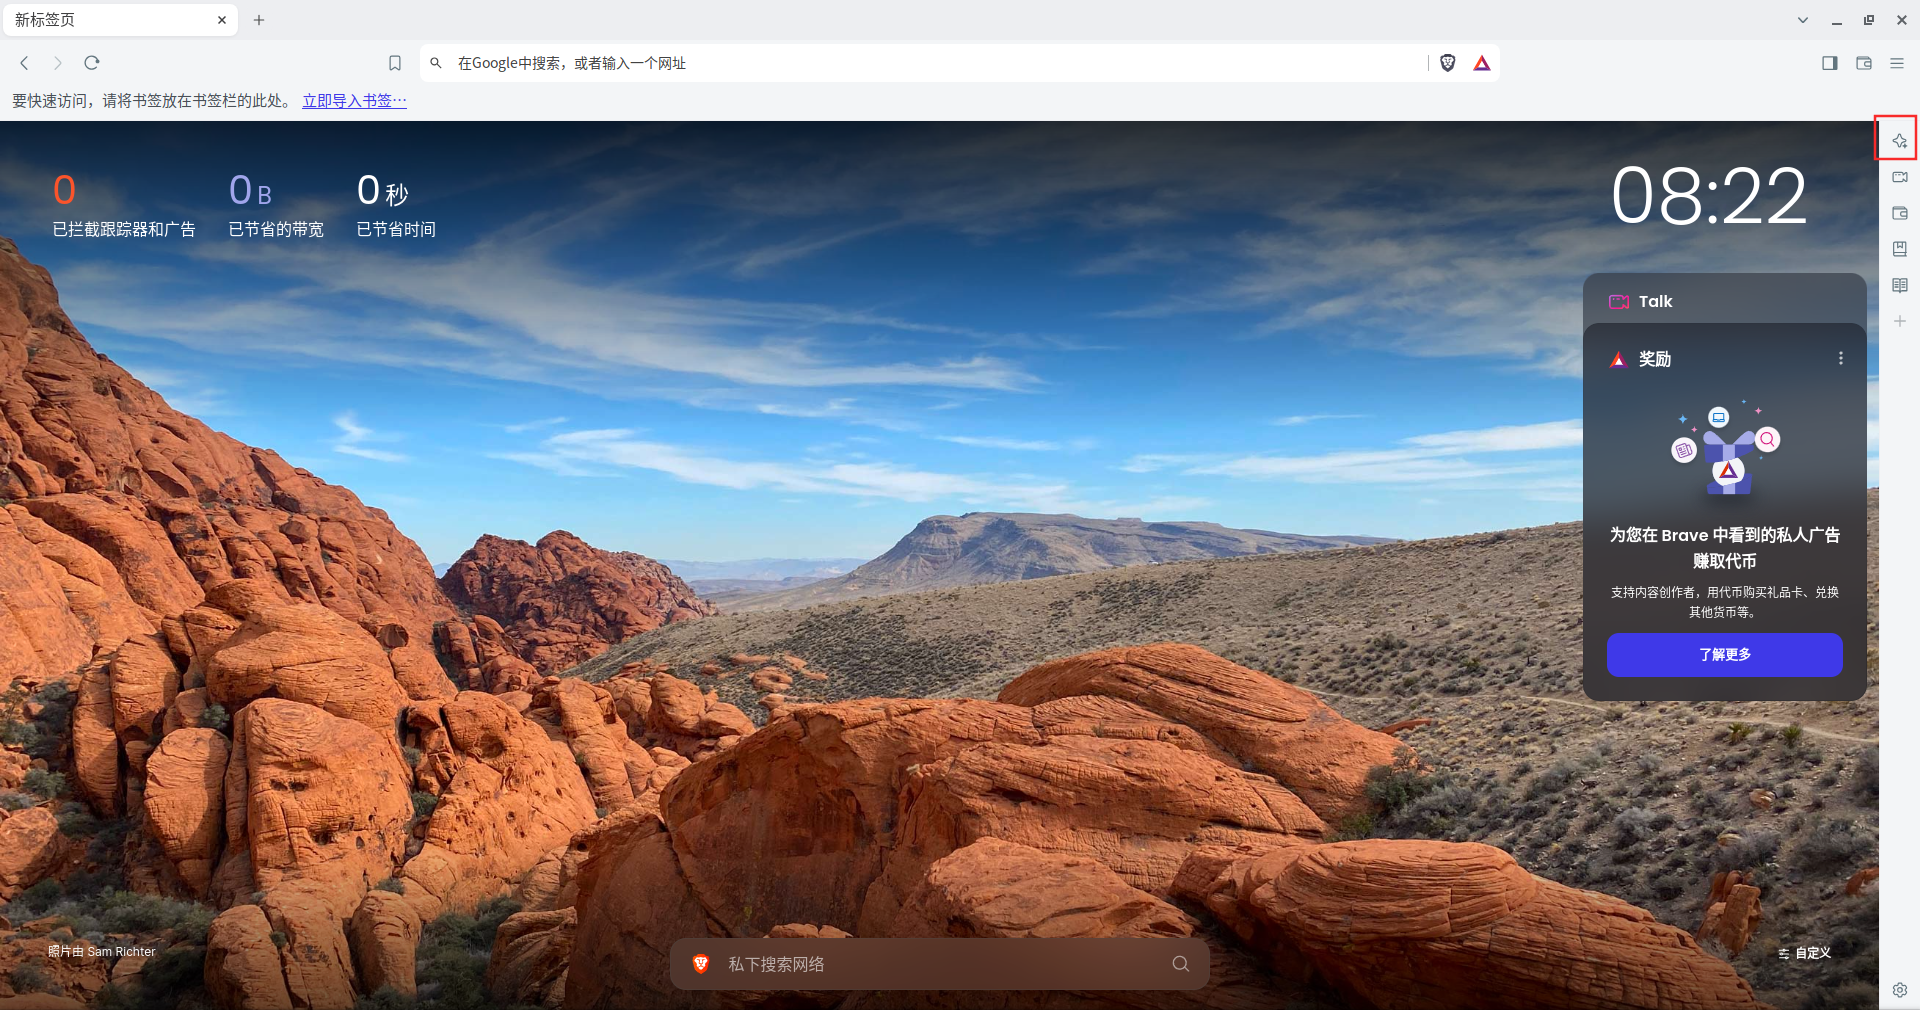
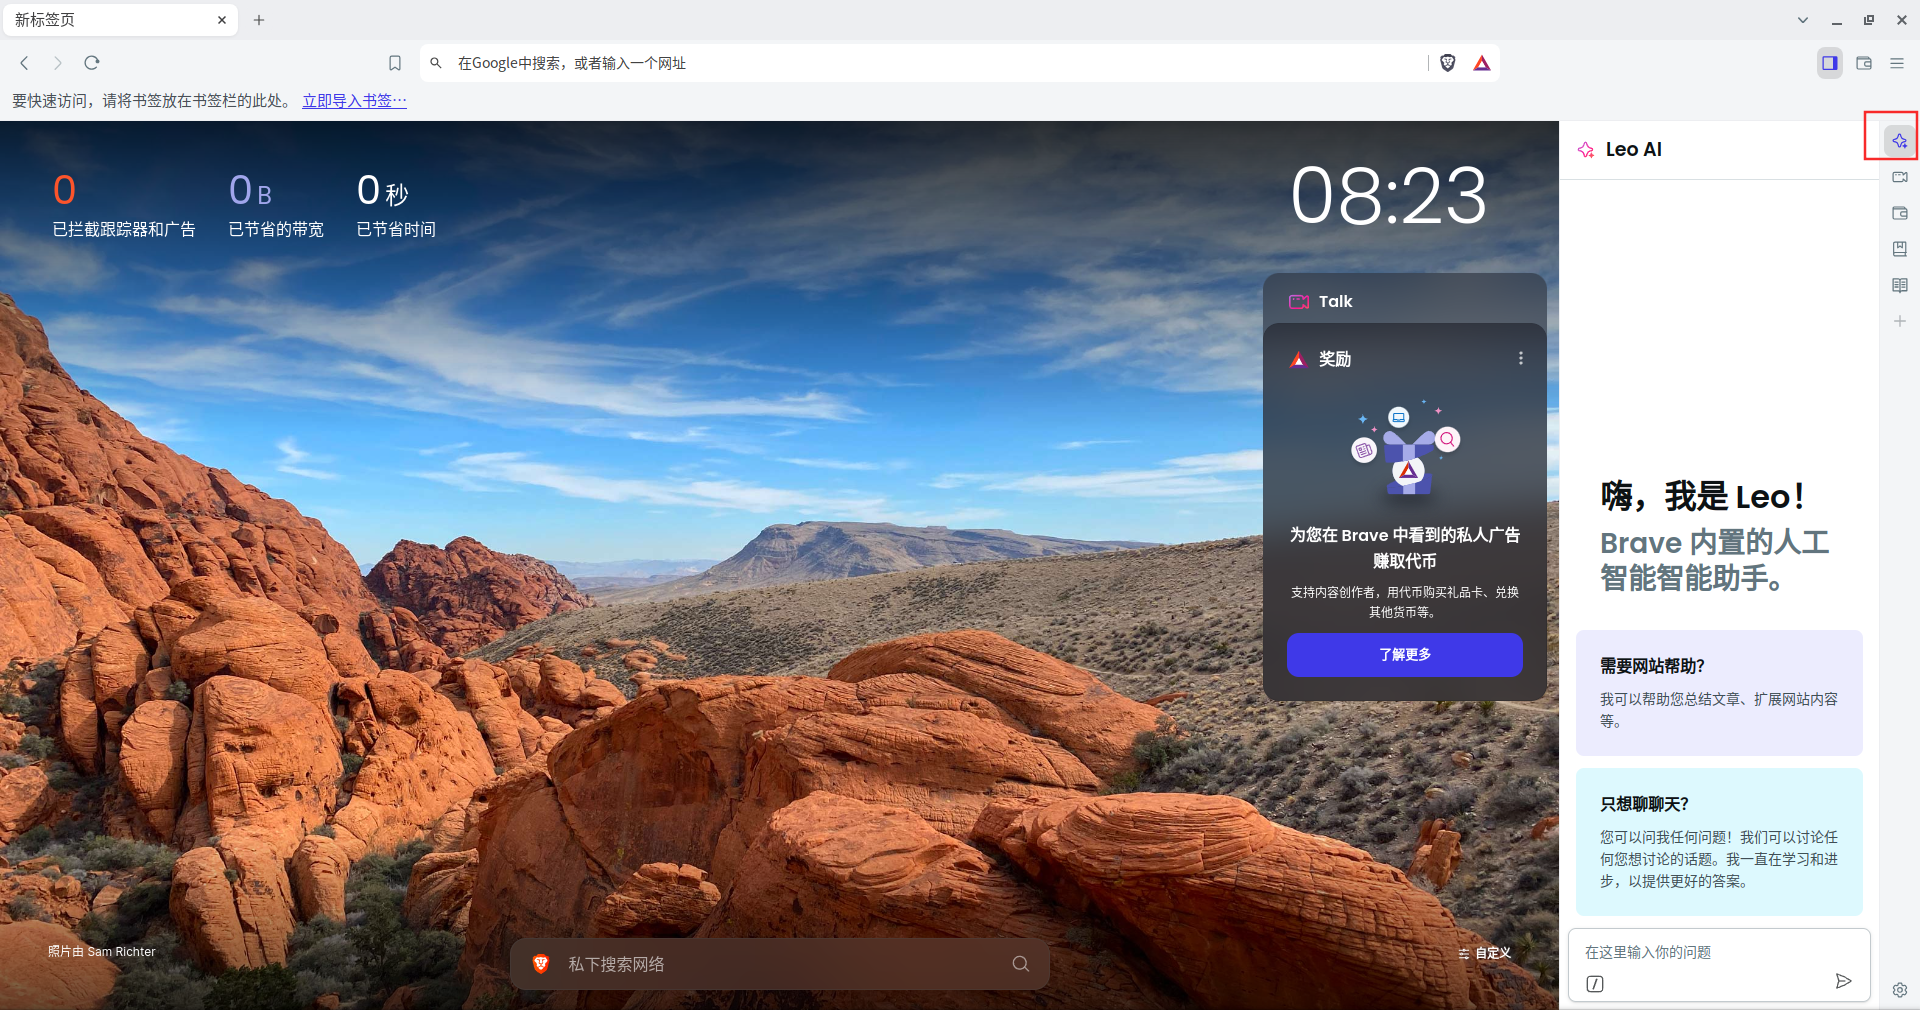
add contents of 2024

diff --git a/book_wechat/2024/202407/ai_browser.md b/book_wechat/2024/202407/ai_browser.md
@@ -1,0 +1,93 @@
+# 浏览器中集成 AI 的三种方式
+
+进入移动互联网时代，浏览器的重要性有所下降，其地位被几款超级 App 取代。然而，在 PC 端，浏览器依然是最重要的应用，仍是人们踏入互联网世界的关键入口。
+
+到了 AI 时代，几乎所有的应用程序都开始拥抱 AI，纷纷借其之力实现蜕变与升级。浏览器自然也不会置身事外，同样积极地融入这股 AI 的洪流之中。
+
+比如这样一种场景，你在浏览网页时，有一个新的名词不太理解，或者有个知识点想进一步了解，以往的做法是打开搜索引擎，输入关键字，查找相关的资料。但搜索引擎并不知道你现在搜索的语境，也不会根据你现在浏览的内容做一个个性化的推荐。如果在浏览器中集成了 AI，AI 可以根据你现在浏览的网页，作为上下文，提供更为准确的信息。
+
+个性化内容推荐，App 在做，搜索引擎在做，但基本上都是根据浏览历史，根据大数据来做。而浏览器中集成 AI，就可以更进一步，根据正在浏览的内容来做个性化内容推荐。
+
+目前浏览器中的 AI 功能集成还处于起步阶段，还有哪些新的玩法，有待探索，也有待市场检验。哪些是真实需求，哪些是产品经理臆想出来的伪需求，用户说了算。
+
+浏览器中集成 AI，大致有如下几种方式：
+
+第一种，像 Google 这样的高阶玩家，直接从标准入手，提供框架，提供在浏览器中进行 AI 开发的基础设施。
+
+就拿 WebGPU 来说吧，其实在这之前，有一个 WebGL 的标准，可以利用 GPU 的并行计算能力，显著加速某些 AI 算法的执行，例如矩阵运算和卷积操作等，提升模型的训练和推理速度。但 Google 仍然不满足，希望提供比 WebGL 更高效的性能和更丰富的功能，特别是对于计算密集型任务，如机器学习和 AI，这就是 WebGPU。
+
+相较于 WebGL, WebGPU 提供了更低级别的控制，允许开发者更精细地管理内存和计算资源，优化 AI 算法的性能。支持更复杂的计算任务和更大的数据集处理，使其成为 AI 开发的理想选择，尤其是在深度学习和大规模并行计算方面。
+
+对于普通开发者而言，WebGL 和 WebGPU 太过于底层，也不太可能直接基于 WebGPU 开发应用。没有关系，你还可以选择 TensorFlow.js。
+
+**TensorFlow.js** 是一个开源的 JavaScript 库，用于在浏览器和 Node.js 环境中进行机器学习模型的训练和部署。简单说，就是 Google 将 TensorFlow 搬到了前端，TensorFlow.js 为机器学习在 Web 应用中的普及提供了强大的支持。
+
+对于有些开发者而言，TensorFlow.js 仍然太复杂。特别是现在大模型盛行，诸如 Open AI 这样的公司，都提供了 API，只需要几个简单的调用，就可以使用大模型。没有关系，Google 也安排上了。
+
+之前写过一篇文章《[AI 大模型的风，吹到了浏览器](https://mp.weixin.qq.com/s/X6UtvgTDJanEnXkdI1ghZw)》，介绍了 Google 开始在 Chrome 中集成了 Gemini Nano 语言模型。虽然出于各种妥协，集成的是 Gemini 的最小版本，但这是迈向端侧推理（不依赖服务器）的重要一步。这也是 Google 下的一步大棋，将 Web AI 推进下一代 Web 标准中。
+
+请看如下一段代码，有了 Web AI，只需要几行代码，就可以调用大模型。
+
+```
+async function testGeminiNano() {
+try {
+  if (!window.ai) throw new Error("AI API not supported.");
+  if ((await window.ai.canCreateTextSession()) !== "readily") {
+    throw new Error("Gemini Nano not ready yet.");
+  }
+  console.log("Gemini Nano is ready to use!");
+  const session = await window.ai.createTextSession();
+  const stream = session.promptStreaming("Tell me a jok!");
+  for await (const chunk of stream) {
+    console.log(chunk);
+  }
+  session.destroy();
+} catch (err) {
+  console.error(err.message);
+}
+}
+
+testGeminiNano();
+```
+
+像 Google 这样从底层入手，从底向上打通路径，不是一般公司能做到。所以浏览器厂商也想到了自己的解决方法，这就是第二种方法，在浏览器应用层面集成 AI，这其中做得比较好的就是 Brave 浏览器。
+
+**Brave 浏览器** 是一个以隐私和安全为核心设计的 Web 浏览器，在最新的 nightly build 中发现在侧边栏增加了一个名为 Leo 的 AI 助手。
+
+![](https://raw.githubusercontent.com/mogoweb/mywritings/master/book_wechat/2024/202407/images/using_deepin_01.png)
+
+点开就可以也 AI 对话。 Leo 支持多种大模型，也支持添加自定义大模型：
+
+![](https://raw.githubusercontent.com/mogoweb/mywritings/master/book_wechat/2024/202407/images/using_deepin_02.png)
+
+和网页深度集成：
+
+![](https://raw.githubusercontent.com/mogoweb/mywritings/master/book_wechat/2024/202407/images/ai_browser_03.png)
+
+第二种方法简单易行，浏览器引擎不需要自己开发，可以基于 Chromium 定制，然后在应用层面集成 AI。集成 AI 大模型也没有使用浏览器本身的能力，而是通过 API，调用大模型。
+
+第二种方法虽然简单易行，但至少得有自己的浏览器产品，虽然说基于 Chromium 定制一款 Web 浏览器也不是一个难事，但如何说服用户使用你的 Web 浏览器则难上加难。如果没有特别支持，用户为什么不选择 Chrome 或者 Edge 浏览器？
+
+面对这种困境，有人给出了第三种方案，那就是提供浏览器插件，由插件来提供 AI 能力。
+
+我最近发现有一款浏览器插件做得不错，浏览器插件的名称一点也不炫酷，叫做：Monica，但功能确实做得不错。
+
+Chorme 浏览器安装 Monica 插件后，会多一个图标，点开后出现 AI 对话框：
+
+![](https://raw.githubusercontent.com/mogoweb/mywritings/master/book_wechat/2024/202407/images/ai_browser_04.png)
+
+从界面上就可以看出，功能相当齐全，聊天、搜索、写作、画图、翻译，应有尽有。
+
+再看看与网页的集成特性。浏览网页时，如果选择了网页上的文字，或者网页中有文字内容，就会出现一个 Monica 助手的图标，可以对网页做总结、翻译、做笔记等等。
+
+![](https://raw.githubusercontent.com/mogoweb/mywritings/master/book_wechat/2024/202407/images/ai_browser_06.png)
+
+还可以进行重写、扩写等等。
+
+![](https://raw.githubusercontent.com/mogoweb/mywritings/master/book_wechat/2024/202407/images/ai_browser_07.png)
+
+Monica 后端接入的是 ChatGPT-4o、Claude 3.5、Gemini 1.5 几种模型，未来会接入更多的大模型，但不支持自定义接入大模型。Monica 提供免费使用，每天只有 40 个查询量，如果觉得不错，可以订阅套餐，提供了 Pro、Pro+ 和 Unlimited 三种套餐。
+
+![](https://raw.githubusercontent.com/mogoweb/mywritings/master/book_wechat/2024/202407/images/ai_browser_08.png)
+
+通过在浏览器中集成AI技术，可以显著提升用户体验、增强功能和提高效率。智能搜索和推荐、自动化任务执行、增强安全性、提高网页加载速度以及先进的语音和图像识别功能，都是AI赋能浏览器的重要体现。未来，随着AI技术的不断发展和成熟，浏览器将变得更加智能和强大，为用户提供更加优质和高效的互联网体验。

diff --git a/book_wechat/2024/202401/multithreading_in_qt.md b/book_wechat/2024/202401/multithreading_in_qt.md
@@ -1,0 +1,53 @@
+# QT 中的多线程相关类
+
+多线程程序设计差不多是每一位程序员必备的技能之一。维基百科中，对多线程的定义如下：
+
+> 多线程是一种广泛使用的编程和执行模型，它允许多个线程存在于一个进程的上下文中。这些线程共享进程的资源，但能够独立执行。线程编程模型为开发人员提供了并发执行的有用抽象。多线程也可以应用于一个进程，以便在多处理系统上实现并行执行。
+
+但对于 C++ 程序员而言，写多线程程序却不那么容易，特别是在进行跨平台开发的时候，因为很长一段时间里，C++ 语言和标准库中并没有多线程库。长期以来，Linux/Unix 程序员使用 pthread（POSIX 线程库），Windows 程序员使用 Windows 提供的多线程 API，Mac 程序员使用 GCD 框架。这种分裂导致很多大型软件，比如 Chromium，都有自己的线程封装库。QT 作为一个流行的跨平台开发框架，自然少不了自己的线程封装库。
+
+当然，编写多线程程序难点并非在于使用多线程库，而在于竞争条件、同步、死锁等。多线程程序设计是一个非常大的题目，本文暂不深入讨论，仅仅解析一下 QT 框架提供的线程类。
+
+### QThread
+
+QThread 应该是 QT 程序员使用最多的一个多线程类。QThread提供了一个高层次的抽象，可以让开发人员更容易地进行多线程编程。下面就是一个 QThread 的例子：
+
+```
+class Thread : public QThread
+{
+protected:
+    void run()
+    {
+        // Doing something ...
+    };
+};
+
+int main()
+{
+    Thread t;
+    t.start();     ①
+    t.wait();
+
+    return 0;
+}
+```
+
+QThread的主要功能包括：
+
+* 创建线程：使用QThread::create()方法可以创建一个线程。
+* 启动线程：使用QThread::start()方法可以启动一个线程。
+* 停止线程：使用QThread::terminate()方法可以停止一个线程。
+* 等待线程结束：使用QThread::wait()方法可以等待一个线程结束。
+* 获取线程状态：使用QThread::isRunning()方法可以获取线程是否正在运行。
+
+QThread 可以直接实例化，也可以子类化。一般我们会定义一个 QThread 子类， 重写 run 方法，这里面就是我们希望在线程中执行的代码。当调用 start 方法后，就会执行 run() 方法中的代码。
+
+### QThreadPool 和 QRunnable
+
+线程池不是什么新鲜概念，在某些情况下，比如服务器端程序处理客户机请求，会存在频繁创建和销毁线程的情况。但是一般来说，频繁创建和销毁线程的成本可能会很高。为了减少这种开销，线程池就可以派上用场了。线程池的作用就是将现有线程重新用于新任务，而不是用完销毁。
+
+QThreadPool是可重用的QThread的集合。
+
+要在 QThreadPool 的线程之一中运行代码，请重新实现 QRunnable::run() 并实例化子类 QRunnable。 使用QThreadPool::start()将QRunnable放入QThreadPool的运行队列中。 当线程可用时，QRunnable::run() 中的代码将在该线程中执行。
+
+每个Qt应用程序都有一个全局线程池，可以通过QThreadPool::globalInstance()访问。 该全局线程池根据 CPU 中的核心数量自动维护最佳线程数量。 然而，可以显式地创建和管理一个单独的QThreadPool。

diff --git a/book_wechat/2024/202401/coze_cn_bot.md b/book_wechat/2024/202401/coze_cn_bot.md
@@ -1,0 +1,11 @@
+# Coze 回归中国，可以用来打造一款智能客服
+
+春节期间，OpenAI 放了一个大招，那就是文本生成视频模型 Sora，直到现在，热度依然不减。很多人将其归为划时代的产品，但我本人并没有特别的感觉。
+
+首先，虽然 OpenAI 放出的样例视频确实非常震撼，但经过文本生成图片的教育，我已经认识到，大神做的作品是一回事，自己去做出来的作品又是另一回事。
+
+其次，虽然很多媒体称其将颠覆很多行业，造成很多人失业，但我更多的担心被滥用，想想以后小视频要被 AI 作品淹没，就有些可怕。
+
+所以，我其实更关心大语言模型的进展。前段时间介绍过 [Coze]()，彼时，Coze 还只有国际版，需要翻墙使用。现在，Coze 推出了中国版，更加方便中国用户使用，而且和中国的产品（飞书、微信等）更好的集成。
+
+![image](https://raw.githubusercontent.com/mogoweb/mywritings/master/book_wechat/2024/202401/images/coze_cn_01.png)

diff --git a/book_wechat/2024/202401/gpt_python.md b/book_wechat/2024/202401/gpt_python.md
@@ -1,0 +1,13 @@
+
+> 请写一段python脚本，提取某个目录下文件中的形如 tr("string") 这样的字符串
+
+![image](https://raw.githubusercontent.com/mogoweb/mywritings/master/book_wechat/2024/202401/images/gpt_python_01.png)
+
+> 请搜索C++代码而不是python，并且将结果导出为excel
+
+![image](https://raw.githubusercontent.com/mogoweb/mywritings/master/book_wechat/2024/202401/images/gpt_python_02.png)
+
+> 请修改上面的代码，目录通过命令行参数传递
+
+![image](https://raw.githubusercontent.com/mogoweb/mywritings/master/book_wechat/2024/202401/images/gpt_python_03.png)
+
